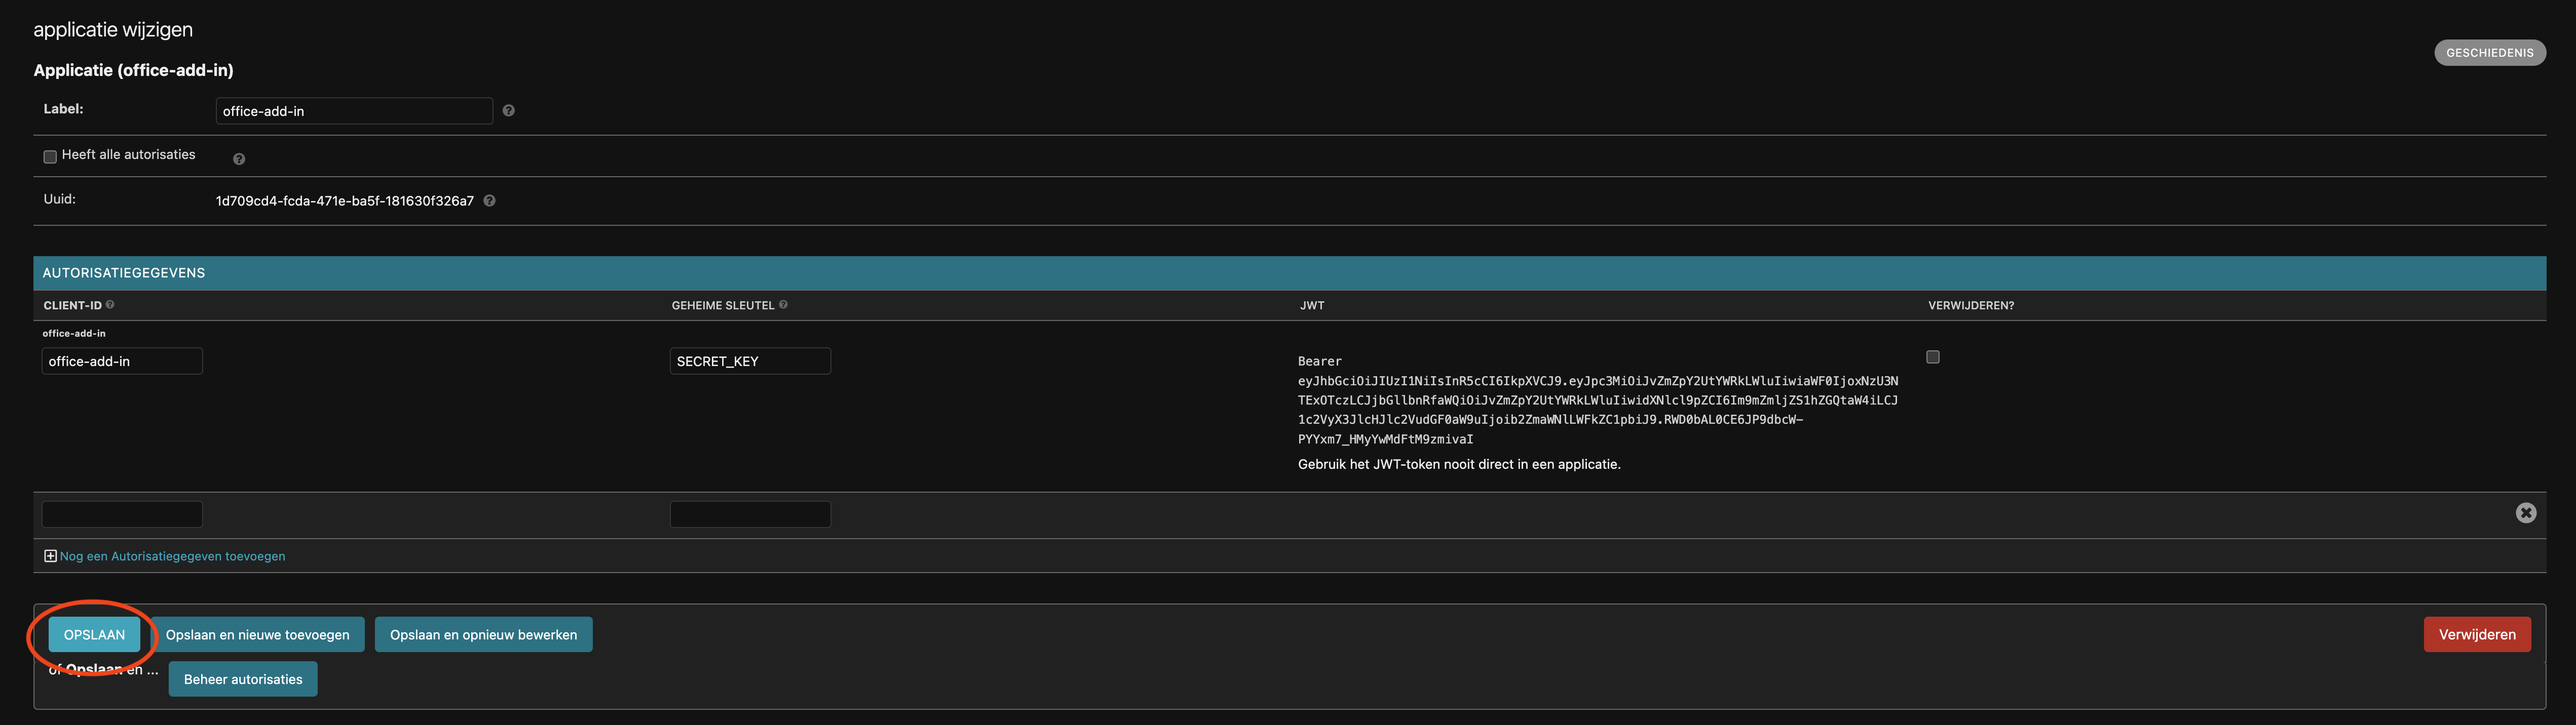
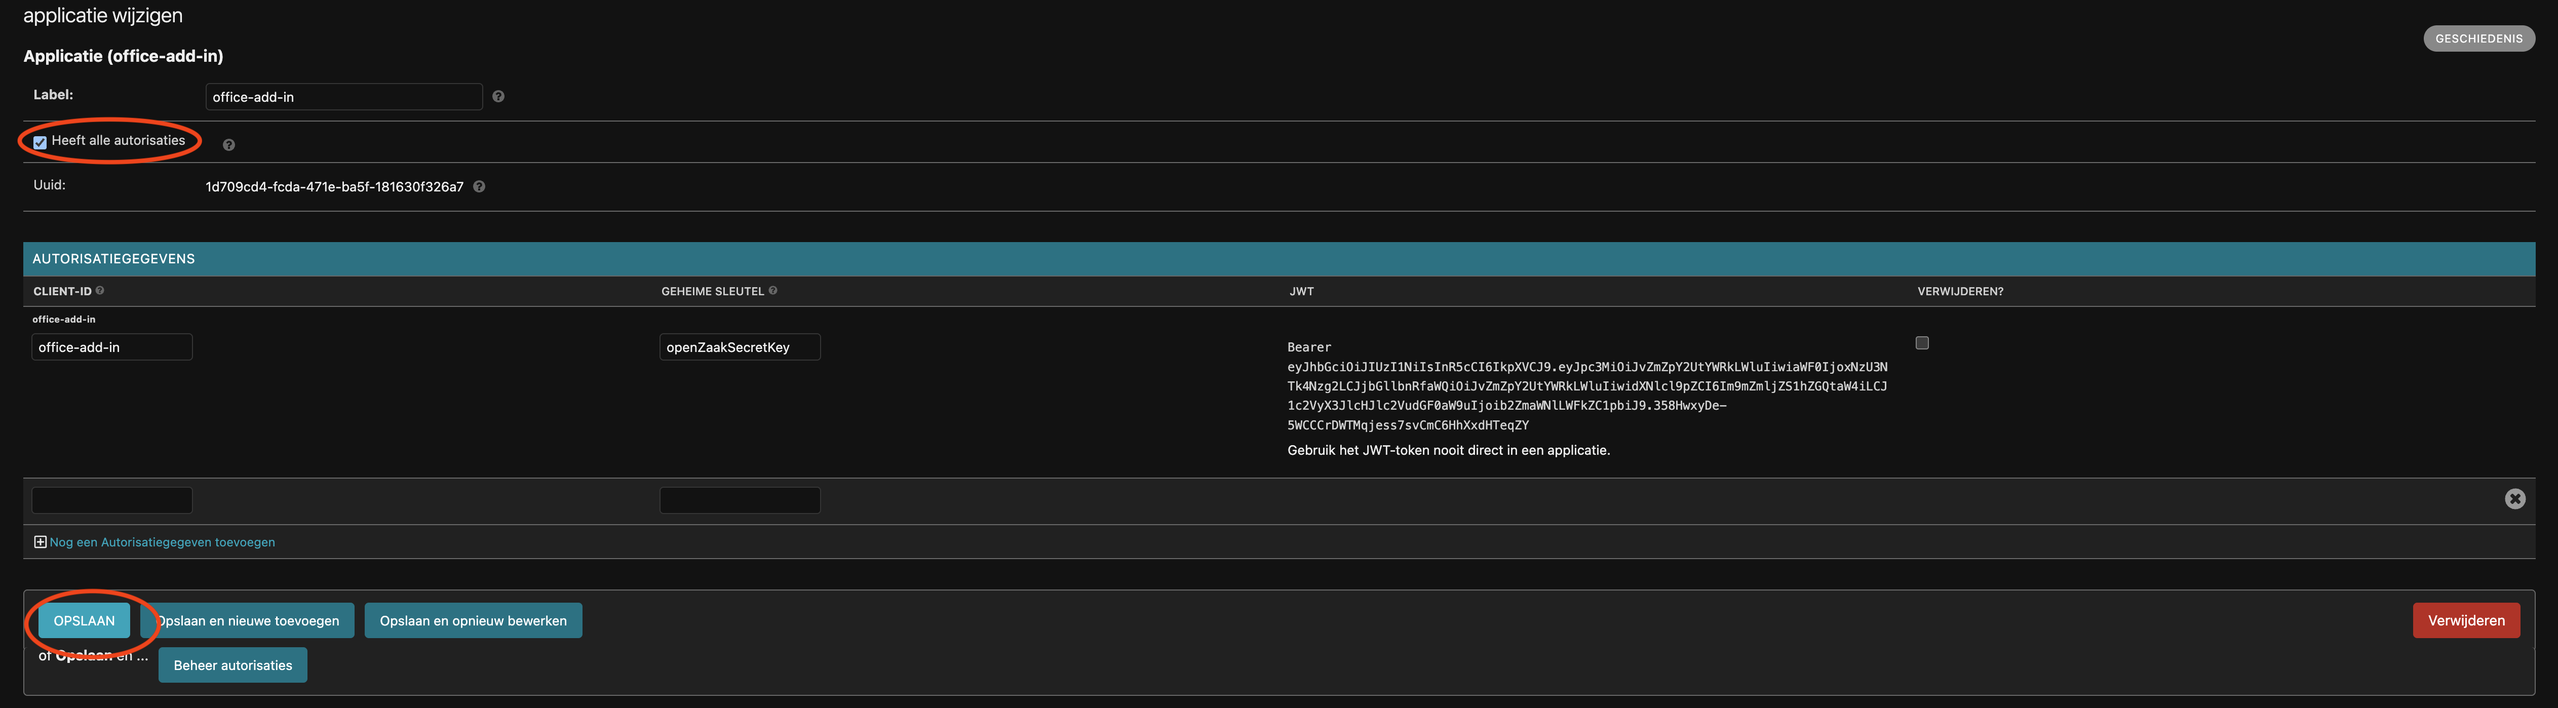
updated OpenZaak manual

diff --git a/docs/manuals/openzaak-manual.md b/docs/manuals/openzaak-manual.md
@@ -11,6 +11,9 @@ To register the add-in log into OpenZaak and navigate to Applications. From ther
 ![Applications](./images/open-zaak/applications.png)
 
 Fill the Label & Client-ID with "office-add-in". For the field Geheime Sleutel fill in the secret key from OpenZaak.
+Aslo make sure to check the box with "Heeft alle autorisaties".
 ![Add Application](./images/open-zaak/add-application.png)
 
-Click Opslaan 
+Click Opslaan
+
+The Add-in now has acces to OpenZaak
